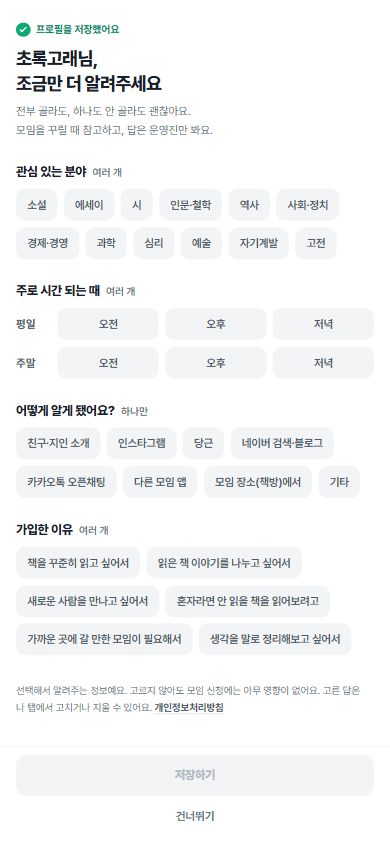
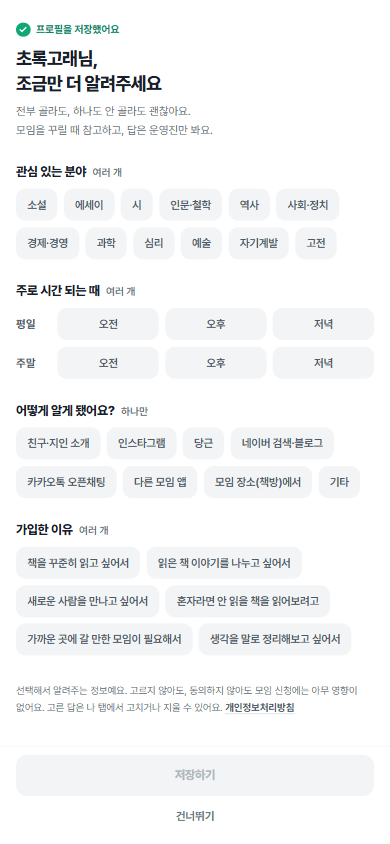
docs: 첫 가입 설문 시안 2차 — 동의 체크칸·스크롤 끝 확인·처리방침 수정안 갱신
Claude-Session: https://claude.ai/code/session_01AtP2JGxY36hHLoGPJEHsbm

Changed region(s): [[0.0308, 0.8009, 0.9231, 0.8626]]

diff --git a/docs/시안-공유/2026-10-12-첫가입설문/회원.html b/docs/시안-공유/2026-10-12-첫가입설문/회원.html
@@ -90,6 +90,26 @@ body.single .phone.tall{height:auto;min-height:100vh}
 .fine{margin-top:34px;padding-bottom:22px;font-size:12.5px;line-height:1.65;color:var(--tg-600)}
 .fine u{text-underline-offset:3px;text-decoration-color:var(--tg-300);font-weight:700;color:var(--tg-700)}
 
+
+/* 동의 체크 (버튼 영역 안) */
+.agree{display:flex;align-items:center;gap:10px;min-height:44px;margin-bottom:8px}
+.box{width:22px;height:22px;flex:none;border-radius:7px;border:2px solid var(--tg-300);display:flex;align-items:center;justify-content:center}
+.box.on{background:var(--brand);border-color:var(--brand)}
+.agree .l{flex:1;font-size:14px;font-weight:700;letter-spacing:-.02em;color:var(--tg-800)}
+.agree .more{flex:none;font-size:13px;font-weight:700;color:var(--tg-600);text-decoration:underline;text-underline-offset:3px;text-decoration-color:var(--tg-300)}
+.cta.soft{background:var(--tg-100);color:var(--tg-700)}
+/* 바텀시트 */
+.dim{position:absolute;inset:0;background:rgba(25,31,40,.42);display:flex;flex-direction:column;justify-content:flex-end;z-index:20}
+.sheet{background:#fff;border-radius:22px 22px 0 0;padding:10px 20px 18px}
+.sheet .grab{width:38px;height:4px;border-radius:9px;background:var(--tg-200);margin:0 auto 14px}
+.sheet h3{font-size:19px;font-weight:800;letter-spacing:-.03em}
+.sheet .hs{margin-top:12px;font-size:13px;line-height:1.6;color:var(--tg-600)}
+.sum{margin-top:10px}
+.sum .r{display:flex;gap:14px;padding:12px 0;border-top:1px solid var(--tg-100)}
+.sum .r:first-child{border-top:0}
+.sum dt{width:78px;flex:none;font-size:14px;color:var(--tg-600)}
+.sum dd{flex:1;font-size:14px;line-height:1.55;font-weight:600;color:var(--tg-900)}
+
 /* 홈 */
 .hi{margin-top:12px;font-size:21px;font-weight:800;line-height:1.3;letter-spacing:-.03em}
 .sec{margin-top:24px;margin-bottom:4px;font-size:13.5px;font-weight:700;color:var(--tg-600);letter-spacing:-.02em}
@@ -132,7 +152,7 @@ body.single .phone.tall{height:auto;min-height:100vh}
 <body>
 <div class="gal">
 <h1 class="gal-title">첫 가입 설문 — 회원 화면 (폰)</h1>
-<p class="gal-sub">한 장씩 보려면 주소 끝에 #s01 ~ #s08 을 붙인다. 가짜 닉네임만 썼다. 오늘 = 10월 12일(월). 선택지는 전부 「제안」이다.</p>
+<p class="gal-sub">한 장씩 보려면 주소 끝에 #s01 ~ #s11 (#s03b 포함) 을 붙인다. 가짜 닉네임만 썼다. 오늘 = 10월 12일(월). 선택지는 전부 「제안」이다.</p>
 
 <section class="scr" id="s01"><p class="cap"><b>01</b>프로필 저장 직후 · 첫 화면(스크롤 전)</p>
 <div class="phone"><div class="body" data-survey="empty" data-saved="1"></div><div class="foot" data-foot="off"></div></div></section>
@@ -140,11 +160,36 @@ body.single .phone.tall{height:auto;min-height:100vh}
 <section class="scr" id="s02"><p class="cap"><b>02</b>설문 비어 있음 · 작은 화면(360×640)에서 스크롤</p>
 <div class="phone"><div class="body" data-survey="empty" data-saved="1"></div><div class="foot" data-foot="off"></div></div></section>
 
-<section class="scr" id="s03"><p class="cap"><b>03</b>일부 고른 상태 (「기타」 칸 열림)</p>
+<section class="scr" id="s03"><p class="cap"><b>03</b>일부 고른 상태 · 동의 체크 전 (저장 꺼짐)</p>
+<div class="phone"><div class="body" data-survey="some" data-saved="1"></div><div class="foot" data-foot="uncheck"></div></div></section>
+
+<section class="scr" id="s03b"><p class="cap"><b>03b</b>일부 고른 상태 · 동의 체크 후 (저장 켜짐)</p>
 <div class="phone"><div class="body" data-survey="some" data-saved="1"></div><div class="foot" data-foot="on"></div></div></section>
 
-<section class="scr" id="s04"><p class="cap"><b>04</b>저장 실패 · 고른 답은 그대로</p>
+<section class="scr" id="s04"><p class="cap"><b>04</b>저장 실패 · 고른 답·체크는 그대로</p>
 <div class="phone"><div class="body" data-survey="some" data-saved="1" data-scroll="end"></div><div class="foot" data-foot="err"></div></div></section>
+
+<section class="scr" id="s09"><p class="cap"><b>09</b>동의 「자세히」 · 시트 열림 (닫힘 = 03)</p>
+<div class="phone"><div class="body" data-survey="some" data-saved="1"></div><div class="foot" data-foot="uncheck"></div>
+  <div class="dim"><div class="sheet">
+    <div class="grab"></div>
+    <h3>가입 설문 정보 수집·이용 (선택)</h3>
+    <dl class="sum">
+      <div class="r"><dt>모으는 것</dt><dd>관심 분야, 주로 시간 되는 때, 알게 된 경로(「기타」에 쓴 내용 포함), 가입한 이유</dd></div>
+      <div class="r"><dt>쓰는 곳</dt><dd>모임 주제·요일·시간대를 정하고, 어디서 알게 됐는지 살펴볼 때 써요</dd></div>
+      <div class="r"><dt>보관</dt><dd>탈퇴하거나 직접 지울 때까지. 그때 바로 지워요</dd></div>
+      <div class="r"><dt>안 해도 돼요</dt><dd>동의하지 않을 수 있어요. 그러면 설문만 저장되지 않고, 모임 신청 등 다른 이용에는 영향이 없어요</dd></div>
+    </dl>
+    <p class="hs">답은 운영진만 봐요. 전체 내용은 개인정보처리방침에 있어요.</p>
+    <span class="cta soft" style="margin-top:14px">닫기</span>
+  </div></div>
+</div></section>
+
+<section class="scr" id="s10"><p class="cap"><b>10</b>맨 아래까지 스크롤 · 비어 있음 (390×844 / 360×640)</p>
+<div class="phone"><div class="body" data-survey="empty" data-saved="1" data-scroll="end"></div><div class="foot" data-foot="off"></div></div></section>
+
+<section class="scr" id="s11"><p class="cap"><b>11</b>맨 아래까지 스크롤 · 고르고 체크한 상태 (버튼 영역이 가장 높을 때)</p>
+<div class="phone"><div class="body" data-survey="some" data-saved="1" data-scroll="end"></div><div class="foot" data-foot="on"></div></div></section>
 
 <!-- s05 건너뛰기 뒤 -->
 <section class="scr" id="s05"><p class="cap"><b>05</b>「건너뛰기」 뒤 도착 · 홈</p>
@@ -242,17 +287,25 @@ body.single .phone.tall{height:auto;min-height:100vh}
     if (s.route === '기타') r += '<div class="etc">' + s.etc + '<small>' + s.etc.length + '/20</small></div>'
     h += blk('어떻게 알게 됐어요?', '하나만', r)
     h += blk('가입한 이유', '여러 개', chips(REASON, s.reason))
-    h += '<p class="fine">선택해서 알려주는 정보예요. 고르지 않아도 모임 신청에는 아무 영향이 없어요. 고른 답은 나&nbsp;탭에서 고치거나 지울 수 있어요. <u>개인정보처리방침</u></p>'
+    h += '<p class="fine">선택해서 알려주는 정보예요. 고르지 않아도, 동의하지 않아도 모임 신청에는 아무 영향이 없어요. 고른 답은 나&nbsp;탭에서 고치거나 지울 수 있어요. <u>개인정보처리방침</u></p>'
     el.innerHTML = h
   })
 
   document.querySelectorAll('[data-foot]').forEach(function (el) {
     var k = el.getAttribute('data-foot')
     if (k === 'edit') { el.innerHTML = '<span class="cta off">저장하기</span>'; return }
+    // 동의 줄은 하나라도 골랐을 때만 나타난다(off = 아무것도 안 고름)
+    var agree = ''
+    if (k !== 'off') {
+      var on = k !== 'uncheck'
+      agree = '<div class="agree"><span class="box' + (on ? ' on' : '') + '">' + (on ? CHECK : '') + '</span>' +
+        '<span class="l">설문 답 수집·이용에 동의해요 (선택)</span><span class="more">자세히</span></div>'
+    }
     var err = k === 'err'
       ? '<p class="err"><svg width="15" height="15" viewBox="0 0 24 24" fill="none" stroke="currentColor" stroke-width="2.4" stroke-linecap="round"><circle cx="12" cy="12" r="10"/><path d="M12 8v4M12 16h.01"/></svg>저장하지 못했어요. 고른 답은 그대로 있으니 한 번 더 눌러 주세요.</p>'
       : ''
-    el.innerHTML = err + '<span class="cta' + (k === 'off' ? ' off' : '') + '">' + (err ? '다시 저장하기' : '저장하기') + '</span><button class="skip">건너뛰기</button>'
+    var off = k === 'off' || k === 'uncheck'
+    el.innerHTML = agree + err + '<span class="cta' + (off ? ' off' : '') + '">' + (err ? '다시 저장하기' : '저장하기') + '</span><button class="skip">건너뛰기</button>'
   })
 
   document.querySelectorAll('[data-home]').forEach(function (el) {

diff --git a/docs/시안-공유/2026-10-12-첫가입설문/README.md b/docs/시안-공유/2026-10-12-첫가입설문/README.md
@@ -1,6 +1,7 @@
-# 첫 가입 설문 — 시안 + 개인정보 처리방침 수정안 (2026-10-12, 디자인)
+# 첫 가입 설문 — 시안 + 개인정보 처리방침 수정안 (2026-10-12, 디자인 · 2회차)
 
 > 정본 결정: `검토문서/DECISIONS.md` 2026-10-12 「가입신청서(구글폼)를 첫 가입 설문으로 옮긴다」 행. 배경: `docs/agent-team/조사/2026-10-10-가입설문-준비.md`.
+> **2회차(같은 날)** — 대표님 답 반영: 선택지 확정 · 동의 체크칸 추가 · 맨 아래 안내 문장 가림 확인 · 처리방침 수정안에 결제 처리자·솔라피·Supabase 도쿄·Vercel 지역 반영.
 > **시안이다. 코드·DB·처리방침 파일은 하나도 바꾸지 않았다.**
 > 스킨: 회원 = 토스 문법 × 지독해 그린(`globals.css` next_ui 토큰 그대로, 새 토큰 없음) / 운영자 = 지금 운영자 화면 스킨(`_admin.css`는 2026-10-12 모임후기 시안에서 복사, 사이드바 메뉴는 `origin/main` `adminMenu.ts` 그대로 — 새 메뉴 없음).
 > 가짜 닉네임만 썼다. 실명은 회색 막대로 가렸고 전화번호는 넣지 않았다. 금액은 숫자만.
@@ -10,10 +11,10 @@
 
 | 파일 | 한 장씩 보기 |
 |---|---|
-| `회원.html` | 주소 끝 `#s01` ~ `#s08` (아무것도 안 붙이거나 `#all`이면 전체 목록) |
+| `회원.html` | 주소 끝 `#s01` ~ `#s11` (`#s03b` 포함. 아무것도 안 붙이거나 `#all`이면 전체 목록) |
 | `운영자.html` | 그대로 열면 된다 (한 장) |
 
-렌더 확인은 이 폴더를 로컬 정적 서버(`python -m http.server`)로 띄워 Playwright로 찍었다. 그냥 더블클릭해 열어도 된다(글꼴은 인터넷에서 받는다).
+렌더 확인은 이 폴더를 로컬 정적 서버(`python -m http.server`)로 띄워 Playwright로 찍었고, PNG는 전부 직접 열어 봤다. 그냥 더블클릭해 열어도 된다(글꼴은 인터넷에서 받는다).
 
 ## 화면 목록 (PNG = 화면당 한 장)
 
@@ -21,97 +22,155 @@
 
 | # | PNG | 화면 |
 |---|---|---|
-| 01 | `01-프로필저장직후-첫화면.png` | 프로필 설정 「시작하기」를 누른 직후. 맨 위에 「프로필을 저장했어요」 한 줄(이 시점에 관문 통과·가입 환영 알림톡은 이미 끝났다). 390 화면에서는 질문 넷이 거의 한 화면에 들어온다. 아무것도 안 골라서 「저장하기」는 꺼져 있고 「건너뛰기」는 늘 보인다 |
-| 02 | `02-360-설문-비어있음-작은화면.png` | 같은 비어 있는 상태를 작은 폰(360×640)에서. 질문은 스크롤되고 아래 버튼 둘은 바닥에 붙어 있다 — 건너뛰기를 찾으려고 내릴 일이 없다 |
-| 03 | `03-일부고른상태.png` · `03-360-일부고른상태.png` | 관심 분야 셋 · 시간 둘(평일 저녁, 주말 오후) · 경로 「기타」(짧은 입력칸이 열림, 20자) · 가입 이유는 비움. 하나라도 고르면 「저장하기」가 켜진다 |
-| 04 | `04-저장실패.png` | 저장 실패. 고른 답은 그대로 두고 버튼 위에 한 줄(코럴 = 에러에만), 버튼은 「다시 저장하기」. 「건너뛰기」는 그대로 둔다 — 실패 때문에 첫 화면에서 갇히면 안 된다 |
-| 05 | `05-건너뛰기뒤-홈.png` | 건너뛰기 → 지금 신규 회원이 보는 홈(「곧 이런 모임이 있어요」 + 가장 가까운 모임 1건) 그대로. 토스트 한 줄: 「나중에 나 탭에서 채울 수 있어요」 |
-| 06 | `06-저장뒤-홈.png` | 저장 → 같은 홈. 토스트: 「알려주셔서 고마워요」. 감사 화면을 따로 두지 않았다 — 첫 신청까지 화면이 하나 더 느는 것을 피했다 |
-| 07 | `07-나탭-고칠자리.png` | **고칠 자리 제안.** 나 탭 「내 활동」 맨 아래 한 줄 「관심 분야 · 시간」(점선 = 새로 생기는 줄, 실제 화면엔 점선 없음). 보조 문구에 지금 답을 요약 |
-| 08 | `08-나탭-관심분야시간-고치기.png` | 그 줄을 누르면. **관심 분야·시간 둘만** 고친다(아래 「시안이 정한 것」). 바꾸기 전이라 「저장하기」 꺼짐. 「답 모두 지우기」로 넷 다 지울 수 있다 |
+| 01 | `01-프로필저장직후-첫화면.png` | 프로필 설정 「시작하기」를 누른 직후. 맨 위에 「프로필을 저장했어요」(이 시점에 관문 통과·가입 환영 알림톡은 이미 끝났다). 아무것도 안 골라서 **동의 줄은 아직 없고** 「저장하기」는 꺼져 있다. 「건너뛰기」는 늘 보인다 |
+| 02 | `02-360-설문-비어있음-작은화면.png` | 같은 상태를 작은 폰(360×640)에서. 질문은 스크롤되고 아래 버튼은 바닥에 붙어 있다 |
+| 03 | `03-일부고른상태-동의전.png` | 하나라도 고르면 버튼 위에 **동의 줄이 나타난다.** 체크 전이라 「저장하기」는 아직 꺼짐. 경로 「기타」를 고르면 20자 입력칸이 열린다 |
+| 03b | `03b-일부고른상태-동의후.png` · `03b-360-일부고른상태-동의후.png` | 동의를 체크하면 「저장하기」가 켜진다 |
+| 04 | `04-저장실패.png` | 저장 실패. 고른 답·체크는 그대로, 버튼 위에 한 줄(코럴 = 에러에만), 버튼은 「다시 저장하기」. 「건너뛰기」는 그대로 둔다 — 실패 때문에 첫 화면에 갇히면 안 된다 |
+| 05 | `05-건너뛰기뒤-홈.png` | 건너뛰기 → 지금 신규 회원 홈(「곧 이런 모임이 있어요」 + 가장 가까운 모임 1건) 그대로 + 토스트 「나중에 나 탭에서 채울 수 있어요」 |
+| 06 | `06-저장뒤-홈.png` | 저장 → 같은 홈 + 토스트 「알려주셔서 고마워요」. 감사 화면을 따로 두지 않았다 |
+| 07 | `07-나탭-고칠자리.png` | 고칠 자리 제안. 나 탭 「내 활동」 맨 아래 「관심 분야 · 시간」(점선 = 새로 생기는 줄, 실제 화면엔 점선 없음) |
+| 08 | `08-나탭-관심분야시간-고치기.png` | 관심 분야·시간 둘만 고친다. 바꾸기 전이라 「저장하기」 꺼짐. 「답 모두 지우기」 = 넷 다 지움(= 동의 철회와 같은 효과) |
+| 09 | `09-동의-자세히-시트열림.png` | 동의 줄 「자세히」 → 바텀시트(열림). 모으는 것 · 쓰는 곳 · 보관 · 안 해도 돼요(거부 권리). 닫힌 상태 = 03 |
+| 10 | `10-스크롤끝-비어있음.png` · `10-360-스크롤끝-비어있음.png` | **가림 확인.** 맨 아래까지 스크롤한 상태, 아무것도 안 고름(버튼 영역이 가장 낮을 때) |
+| 11 | `11-스크롤끝-고르고동의.png` · `11-360-스크롤끝-고르고동의.png` | **가림 확인.** 맨 아래까지 스크롤, 고르고 체크한 상태(동의 줄이 붙어 버튼 영역이 가장 높을 때) |
 
 > 토스트 모양·자리는 지금 서재의 `LibraryToast`(하단 탭 위 76px, 어두운 띠)를 따랐다. 새 패턴이 아니다.
+> 390에서는 질문 넷이 거의 한 화면에 들어와 01과 10이 사실상 같은 그림이다(스크롤할 거리가 거의 없다).
 
 ### 운영자 · 데스크톱 1440
 
 | # | PNG | 화면 |
 |---|---|---|
-| A1 | `A1-운영자-회원상세-가입설문.png` | 회원 관리 — 목록에 작은 「설문 답함 / 건너뜀 / —」 표시 + 행을 누르면 오른쪽에 회원 상세가 열린다고 **가정**(지금 회원 관리에는 상세 화면이 없다 — `MemberList.tsx`는 목록뿐). 상세 안 「가입 설문」 칸에 네 답. 시간은 6칸 표로. **총괄운영자(admin)만 보는 칸**으로 그렸다 |
+| A1 | `A1-운영자-회원상세-가입설문.png` | 회원 관리 — 목록에 「설문 답함 / 건너뜀 / —」 표시 + 행을 누르면 오른쪽에 회원 상세가 열린다고 **가정**(지금 회원 관리에는 상세 화면이 없다 — `MemberList.tsx`는 목록뿐). 상세 안 「가입 설문」 칸에 네 답, 시간은 6칸 표. **총괄운영자(admin)만 보는 칸** |
 
-## 시안이 정한 것 (결정 문장 안에서 디자인이 채운 빈칸)
+## 맨 아래 안내 문장 가림 확인 (대표님 지적)
+
+| 상태 | 390×844 | 360×640 |
+|---|---|---|
+| 맨 아래 스크롤 · 비어 있음 (`10`) | ✅ 안내 두 줄 + 「개인정보처리방침」 링크까지 버튼 영역 위에 다 보인다 | ✅ 다 보인다 |
+| 맨 아래 스크롤 · 고르고 동의 (`11`) | ✅ 다 보인다 | ✅ 다 보인다 |
+
+- **가려진 것이 아니라 스크롤 중간이었다.** 1회차 `03`·`04`는 스크롤 끝이 아닌 상태라 안내 문장이 버튼 경계에서 잘려 보였다. 이번에 스크롤 끝을 따로 찍어 문장 전체가 버튼 위에 나오는 것을 확인했다. 그래서 아래 여백은 바꾸지 않았다(안내 문장 아래 22px).
+- 🔴 **구현할 때 지킬 것 (개발·운영 몫).** 시안은 버튼 영역이 본문 아래에 따로 자리를 차지하는 구조라 겹칠 수가 없다. 실제 화면에서 버튼을 화면 바닥에 **겹쳐 띄우면**(`fixed`) 본문 아래에 **버튼 영역 높이 + 아이폰 하단 안전 영역**만큼 여백을 둬야 한다. 하나라도 고르면 동의 줄이 붙어 **버튼 영역이 약 52px 높아진다** — 여백을 고정값으로 두면 고른 뒤부터 안내 문장이 다시 가려진다.
+
+## 동의 체크 — 동작 (대표님 지시 반영)
+
+| 상황 | 동의 줄 | 「저장하기」 | 「건너뛰기」 |
+|---|---|---|---|
+| 아무것도 안 고름 (01·02·10) | **없음** | 꺼짐 | 체크 없이 됨 |
+| 하나라도 고름 · 체크 전 (03) | 버튼 위에 나타남 | **꺼짐** | 체크 없이 됨 — 고른 답은 저장하지 않는다 |
+| 고름 · 체크 (03b·11) | 체크됨 | 켜짐 | 됨 — 고른 답은 저장하지 않는다 |
+| 고른 것을 전부 해제 | 사라지고 체크도 풀린다 | 꺼짐 | 됨 |
+| 저장 실패 (04) | 체크 유지 | 「다시 저장하기」 | 됨 |
+| 나 탭에서 고치기 (08) | **다시 묻지 않는다** — 처음 저장할 때 이미 동의했다 | 바꾼 게 있을 때만 켜짐 | — |
+
+- 권고대로 **「하나라도 골랐을 때만 체크 필요, 건너뛰기는 체크 없이」**로 정했다. 고르기 전부터 동의 줄을 두면, 아무것도 안 낼 사람에게도 「동의하세요」가 보여 안 내도 되는 일이 해야 하는 일처럼 읽힌다.
+- 동의 줄을 스크롤 맨 아래가 아니라 **버튼 바로 위**에 붙였다. 「저장하기」가 꺼진 이유가 바로 위에 보여야 한다 — 맨 아래에 두면 360에서 그 줄을 찾으러 내려가야 한다.
+- 문구: 체크 줄 「설문 답 수집·이용에 동의해요 (선택)」 + 「자세히」. 시트(09)는 **모으는 것 · 쓰는 곳 · 보관 · 안 해도 돼요** 네 줄 + 「전체 내용은 개인정보처리방침에 있어요」. 시트 안에서는 동의시키지 않는다(닫기만) — 동의는 체크 줄 한 군데에서만 한다.
+- 동의 철회 = 08 「답 모두 지우기」. 지우면 다음에 다시 고를 때 동의 줄이 다시 나온다(가정).
+- ⚠ **확인 필요** — 체크칸 문구·시트 네 줄이 법이 요구하는 알릴 내용을 다 담았는지는 법 확인 대상이다. 시안은 처리방침 수정안(아래)과 같은 말을 쓰도록만 맞췄다.
+
+## 시안이 정한 것
 
 | 정한 것 | 왜 |
 |---|---|
 | **한 화면에 질문 넷, 순서 = 관심 분야 → 시간 → 알게 된 경로 → 가입 이유** | 「나」에 관한 질문(취향·시간)이 먼저 와야 답하는 재미가 있다. 경로·이유는 운영자 쪽 질문이라 뒤로 |
-| **전부 칩 고르기, 자유 입력은 「경로 · 기타」 하나만(20자)** | 경로는 우리가 모르는 새 길을 알려 주는 유일한 질문이라 칸이 필요하다. 이유·분야에 자유 칸을 열면 「의미 없는 응답」(구글폼 문제 셋 중 하나)이 돌아오고 처리방침에 적을 범위도 넓어진다 |
-| **시간 = 평일/주말 × 오전/오후/저녁 6칸 표, 여러 개** | 결정 문장의 「×」를 그대로 그렸다. 요일 2개·시간대 3개를 따로 고르게 하면 「평일+주말, 오전+저녁」이 평일 오전인지 주말 저녁인지 알 수 없다. 칸이 6개뿐이라 표가 무겁지 않다 |
-| **「저장하기」는 하나라도 골라야 켜진다** | 아무것도 안 고르고 저장 = 건너뛰기와 같은 일인데 버튼이 둘이면 헷갈린다 |
-| **건너뛰기·저장 둘 다 홈으로, 토스트 한 줄** | 결정대기 「신규 회원 첫 화면에 할 일 하나」(첫 신청)와 자리를 다투지 않게 — 설문이 끼어든 뒤에도 첫 신청까지 탭 수는 「건너뛰기」 1번만 는다 |
-| **설문은 한 번만 보인다** (가정) | 건너뛰거나 저장하면 다시 안 띄운다. 앱을 그냥 닫아 버린 경우도 「한 번 보여 줬다」로 치는 쪽을 권한다 — 다음 방문에 또 뜨면 관문처럼 느껴진다. 구현 방식은 개발·운영이 정한다 |
-| **나중에 고치는 곳 = 나 탭 한 줄, 관심 분야·시간만** | 둘은 살다 보면 바뀐다. 알게 된 경로·가입 이유는 가입 때의 사실이라 고칠 일이 없다 — 화면에서 뺐다. 대신 「답 모두 지우기」는 넷을 다 지운다(아래 처리방침 §7과 짝) |
-| **화면 맨 아래 고지 한 줄 + 처리방침 링크** | 「선택해서 알려주는 정보 · 안 골라도 신청에 영향 없음 · 나 탭에서 고치거나 지울 수 있음」. 동의 체크칸은 **그리지 않았다** — 필요한지는 아래 「확인 필요」 1번 |
-| 문구 어미 = 지금 5탭 화면 말투(해요체) | ⚠ `VOICE.md`는 카카오톡 메시지 전용이고 인앱 문구 기준은 어느 문서에도 없다(2026-08-26 결정). 기존 5탭 화면 문구 결을 따랐을 뿐 기준 문서를 근거로 쓰지 않았다 |
-| 첫 화면 문구 「답은 운영진만 봐요」 | 모임후기 시안과 같은 말. 열린 질문 3이 「admin만」으로 정해져도 회원에게 「총괄운영자」는 낯선 말이라 이대로 둔다 |
+| **전부 칩 고르기, 자유 입력은 「경로 · 기타」 하나만(20자)** | 경로는 우리가 모르는 새 길을 알려 주는 유일한 질문이다. 이유·분야에 자유 칸을 열면 의미 없는 응답이 돌아오고 처리방침에 적을 범위도 넓어진다 |
+| **시간 = 평일/주말 × 오전/오후/저녁 6칸 표, 여러 개** | 결정 문장의 「×」를 그대로 그렸다. 요일과 시간대를 따로 고르게 하면 조합을 알 수 없다 |
+| **「저장하기」는 하나라도 고르고 + 동의해야 켜진다** | 위 동의 표 |
+| **건너뛰기·저장 둘 다 홈으로, 토스트 한 줄** | 결정대기 「신규 회원 첫 화면에 할 일 하나」(첫 신청)와 자리를 다투지 않게 — 첫 신청까지 늘어나는 건 「건너뛰기」 1번뿐 |
+| **설문은 한 번만 보인다** (가정) | 건너뛰거나 저장하면 다시 안 띄운다. 그냥 앱을 닫은 경우도 「한 번 보여 줬다」로 치는 쪽을 권한다 — 다음 방문에 또 뜨면 관문처럼 느껴진다. 구현 방식은 개발·운영이 정한다 |
+| **나중에 고치는 곳 = 나 탭 한 줄, 관심 분야·시간만** | 둘은 살다 보면 바뀐다. 경로·이유는 가입 때의 사실이라 고칠 일이 없다. 대신 「답 모두 지우기」는 넷을 다 지운다 |
+| 문구 어미 = 지금 5탭 화면 말투(해요체) | ⚠ `VOICE.md`는 카카오톡 메시지 전용이고 인앱 문구 기준은 어느 문서에도 없다(2026-08-26 결정). 기존 5탭 문구 결만 따랐다 |
+| 「답은 운영진만 봐요」 | 모임후기 시안과 같은 말. editor 열람(열린 질문 2)이 「안 됨」으로 정해져도 회원에게 「총괄운영자」는 낯선 말이라 이대로 둔다 |
 
-## 항목별 선택지 후보 — 전부 「제안」
+## 항목별 선택지 — ✅ 확정 (대표님, 2026-10-12: 제안대로)
 
-> 원본 구글폼 선택지는 저장소에 없다(조사 문서 §1-1). 아래는 디자인 제안이고 **대표님이 실제로 들어오는 길·이유를 보고 고친다.**
-
-| 항목 | 고르는 방식(제안) | 선택지(제안) | 「기타」 입력칸(제안) |
+| 항목 | 고르는 방식 | 선택지 | 「기타」 입력칸 |
 |---|---|---|---|
-| 관심 있는 분야 | 여러 개 | 소설 · 에세이 · 시 · 인문·철학 · 역사 · 사회·정치 · 경제·경영 · 과학 · 심리 · 예술 · 자기계발 · 고전 (12) | 없음 — 12개면 대부분 덮고, 운영자가 모임 책을 고르는 단위와 맞추는 게 목적 |
+| 관심 있는 분야 | 여러 개 | 소설 · 에세이 · 시 · 인문·철학 · 역사 · 사회·정치 · 경제·경영 · 과학 · 심리 · 예술 · 자기계발 · 고전 (12) | 없음 |
 | 주로 시간 되는 때 | 여러 개 (6칸 표) | 평일 오전 · 평일 오후 · 평일 저녁 · 주말 오전 · 주말 오후 · 주말 저녁 | 없음 |
 | 어떻게 알게 됐어요? | **하나만** | 친구·지인 소개 · 인스타그램 · 당근 · 네이버 검색·블로그 · 카카오톡 오픈채팅 · 다른 모임 앱 · 모임 장소(책방)에서 · 기타 | **있음, 20자** — 기타를 고를 때만 열린다 |
 | 가입한 이유 | 여러 개 | 책을 꾸준히 읽고 싶어서 · 읽은 책 이야기를 나누고 싶어서 · 새로운 사람을 만나고 싶어서 · 혼자라면 안 읽을 책을 읽어보려고 · 가까운 곳에 갈 만한 모임이 필요해서 · 생각을 말로 정리해보고 싶어서 (6) | 없음 |
 
-- 경로를 「하나만」으로 둔 이유 — 여러 길로 봤어도 **처음 본 곳** 하나가 집계에 쓸모 있다. 여러 개로 받으면 인스타그램과 오픈채팅이 늘 같이 찍혀 어느 쪽이 데려왔는지 안 갈린다.
-- 「다른 모임 앱」은 특정 서비스 이름을 쓰지 않았다. 실제로 많이 오는 앱이 있으면 이름으로 바꾼다.
+- **「기타」 응답이 쌓이면 목록을 고친다** — 경로 「기타」에 같은 답이 여러 번 나오면 그 길을 선택지로 올린다.
+- 경로를 「하나만」으로 둔 이유 — **처음 본 곳** 하나가 집계에 쓸모 있다. 여러 개면 인스타그램과 오픈채팅이 늘 같이 찍혀 어느 쪽이 데려왔는지 안 갈린다.
 
 ## 개인정보 처리방침 수정안 — 바뀌는 조항만
 
-> 바탕 = `origin/main` `jidokhae-web/src/app/policy/privacy/page.tsx`(2026-10-12 읽음, 시행일 문장 「2026년 3월 21일」). **실제 파일은 고치지 않았다. 법률 검토가 아니다** — 확인 필요한 곳은 표시했다.
+> 바탕 = `origin/main` `jidokhae-web/src/app/policy/privacy/page.tsx`(2026-10-12 읽음, 시행일 문장 「2026년 3월 21일」). **실제 파일은 고치지 않았다. 법률 검토가 아니다** — 확인할 곳마다 ⚠로 표시했다.
+> 아래 A는 설문 때문에 바뀌는 것, B는 설문과 무관하게 **지금 문장이 실제와 다른 것**이다. 한 번에 개정하면 공지도 한 번으로 끝난다.
+
+### A. 설문 때문에 바뀌는 조항
 
 | 조항 | 지금 | 바꾼 뒤 (제안) |
 |---|---|---|
-| **1. 수집 항목** | 가 · 나 · 다 세 묶음. 나 = 「실명, 닉네임(서비스 내 표시용), 전화번호, 지역, 이메일(선택)」 | **「라. 가입 설문(선택)」 묶음을 더한다** — 「관심 분야, 주로 시간 되는 때(평일·주말 × 오전·오후·저녁), 서비스를 알게 된 경로(「기타」를 고른 경우 직접 쓴 20자 이내 내용), 가입한 이유」 + 한 줄 「가입 설문은 선택 항목이며, 입력하지 않아도 모임 신청 등 서비스 이용에 제한이 없습니다.」 |
-| **2. 목적** | 서비스 제공 · 이용자 식별 · 연락 · 서비스 개선 · 민원 처리 (5줄) | **한 줄 더한다** — 「모임 기획: 가입 설문(선택) 응답을 모임의 주제·요일·시간대를 정하는 데 참고하고, 서비스를 알게 된 경로를 집계합니다.」 ⚠ **확인 필요** — A1처럼 운영자가 **회원 한 명의 답**을 보는 것이 이 문장 안에 드는지. 응답을 보고 특정 회원에게 연락하거나 모임을 권하는 데 쓸 거라면 목적에 그렇게 적어야 한다 |
-| **3. 보유 기간** | 「회원 탈퇴 시까지 보유하며, 탈퇴 시 지체 없이 파기」 + 전자상거래법 보존 기록 | 본문은 그대로 두고 한 줄 더한다 — 「가입 설문 응답은 회원 탈퇴 시 또는 회원이 직접 지운 때 지체 없이 파기합니다.」 |
-| **6. 국외 이전** | Supabase Inc.(AWS) · 미국 · 이전 항목 「회원 정보, 모임 신청/결제 내역」 | 이전 항목을 「회원 정보(**가입 설문 응답 포함**), 모임 신청/결제 내역」으로. **해당 여부 = 해당한다** — 응답이 지금 회원 정보와 같은 데이터베이스에 저장된다는 전제(구조는 개발 소관). ⚠ **확인 필요** — 데이터베이스가 실제로 미국 지역에 있는지는 이 시안에서 확인하지 않았다. 지금 문장을 그대로 믿었다 |
-| **7. 이용자의 권리** | 열람·정정·삭제·처리 정지·탈퇴 요청 — 연락처·카카오톡 1:1로 | 한 줄 더한다 — 「가입 설문 응답은 나 탭 › 관심 분야 · 시간에서 직접 고치거나 지울 수 있습니다.」 (07·08 자리를 채택할 때만) |
-| **11. 변경** | 「2026년 3월 21일부터 적용」 · 「변경 시 서비스 내 공지를 통해 안내」 | 시행일을 설문을 켜는 날로 바꾸고 이전 시행일을 남긴다 — 「이 방침은 2026년 ○월 ○일부터 적용됩니다. (이전 방침: 2026년 3월 21일 ~ ○월 ○일)」 ⚠ **확인 필요** — 「서비스 내 공지」를 실제로 어디로 낼지(홈 공지 띠 · 앱 알림 · 그 밖). 지금 정해진 경로가 없다 |
-| 4·5·8·9·10 | — | **바꾸지 않는다** (설문이 제3자 제공·위탁 범위를 바꾸지 않는다는 전제) |
+| **1. 수집 항목** | 가 · 나 · 다 세 묶음. 나 = 「실명, 닉네임(서비스 내 표시용), 전화번호, 지역, 이메일(선택)」 | **「라. 가입 설문(선택, 별도 동의)」 묶음을 더한다** — 「관심 분야, 주로 시간 되는 때(평일·주말 × 오전·오후·저녁), 서비스를 알게 된 경로(「기타」를 고른 경우 직접 쓴 20자 이내 내용), 가입한 이유」 + 「가입 설문은 선택 항목으로, 동의하지 않거나 입력하지 않아도 모임 신청 등 서비스 이용에 제한이 없습니다.」 |
+| **2. 목적** | 서비스 제공 · 이용자 식별 · 연락 · 서비스 개선 · 민원 처리 (5줄) | 한 줄 더한다 — 「모임 기획: 가입 설문(선택) 응답을 모임의 주제·요일·시간대를 정하는 데 참고하고, 서비스를 알게 된 경로를 살펴봅니다.」 ⚠ A1처럼 운영자가 **회원 한 명의 답**을 보는 것이 이 문장 안에 드는지 확인 필요. 특정 회원에게 연락하거나 모임을 권하는 데 쓸 거라면 목적에 그렇게 적어야 한다 |
+| **3. 보유 기간** | 「회원 탈퇴 시까지 보유하며, 탈퇴 시 지체 없이 파기」 + 전자상거래법 보존 기록 | 한 줄 더한다 — 「가입 설문 응답은 회원 탈퇴 시 또는 회원이 직접 지우거나 동의를 철회한 때 지체 없이 파기합니다.」 |
+| **6. 국외 이전 (Supabase 행)** | 이전 항목 「회원 정보, 모임 신청/결제 내역」 | 「회원 정보(**가입 설문 응답 포함**), 모임 신청/결제 내역」. 국가 칸은 B-2 참조 |
+| **7. 이용자의 권리** | 열람·정정·삭제·처리 정지·탈퇴 요청 — 연락처·카카오톡 1:1로 | 한 줄 더한다 — 「가입 설문 응답은 나 탭 › 관심 분야 · 시간에서 직접 고치거나 지울 수 있으며, 지우면 동의를 철회한 것으로 봅니다.」 |
+| **11. 변경** | 「2026년 3월 21일부터 적용」 · 「변경 시 서비스 내 공지를 통해 안내」 | 「이 방침은 2026년 ○월 ○일부터 적용됩니다. (이전 방침: 2026년 3월 21일 ~ ○월 ○일)」 ⚠ 「서비스 내 공지」를 실제로 어디에 낼지(홈 공지 띠 · 앱 알림 · 그 밖) 확인 필요 — 정해진 경로가 없다 |
 
-### 확인 필요 — 디자인이 정할 수 없는 것
+### B-1. 결제 처리자 (§5 · §8) · 솔라피 위치 (§5 · §6)
 
-1. **선택 항목에 별도 동의 체크칸이 필요한가.** 시안은 체크칸 없이 「고지 한 줄 + 처리방침 링크」만 뒀다. 필요하다고 나오면 「저장하기」 위에 체크칸 하나가 들어가고 01·03·04가 바뀐다. 법 확인이 먼저다.
-2. 위 표의 ⚠ 셋(회원 한 명 단위로 보는 것이 목적에 드는지 · 데이터베이스 지역 · 변경 안내 경로).
-3. 기존 회원에게는 묻지 않으므로, 이 개정이 **기존 회원에게 따로 알릴 일인지**(그들은 새 항목을 낼 일이 없다).
+**실제 결제 경로 확인 (2026-10-12, `origin/main` 02745e4 코드 + `CLAUDE.md`)**
+- 카드·카카오페이머니 = **포트원 V2 → 카카오페이 채널.** 회원 화면 `MeetingActionButton.tsx:6`·`:174`가 `@portone/browser-sdk/v2`의 `PortOne.requestPayment`(가게 ID·채널 키)를 부르고, 서버 `lib/portone.ts`가 결제 확인·환불을 맡는다. 「카카오페이 단일 채널 + EASY_PAY」(같은 파일 `:173` 주석, `CLAUDE.md` Key Technical Decisions)
+- 계좌이체 = **PG 없음.** 회원이 운영자 계좌로 직접 보내고 운영자가 입금을 확인한다(`register_transfer` · `admin_confirm_transfer`). 환불도 운영자가 손으로 보낸다
+- 토스페이먼츠 = **안 쓴다.** `lib/tosspayments.ts`·`webhooks/tosspayments`는 되돌릴 때를 대비해 남겨 둔 코드라 결제 흐름에서 부르지 않는다(`CLAUDE.md` — 토스 직연동이 PG 심사에서 거절돼 PR #28에서 옮겼다). `cancel.ts:57`·`meetings/[id]/delete/route.ts:97`의 「TossPayments」는 옛 주석이 남은 것이다
+- 알림톡 = 솔라피(`lib/solapi.ts`) → 카카오 알림톡
 
-### 곁가지로 발견한 것 — 고치지 않았다, 보고만
-
-처리방침을 읽다가 설문과 무관한 지금 문장 셋이 지금 결제·발송 구조와 다르게 읽혔다. **법률 판단이 아니라 사실 대조다. 확인 필요.**
-
-| 자리 | 지금 문장 | 대조한 근거 |
+| 조항 | 지금 | 바꾼 뒤 (제안) |
 |---|---|---|
-| §5 위탁 | 「결제 처리: 토스페이먼츠 주식회사」 | `CLAUDE.md` Key Technical Decisions — 결제는 PortOne V2(카카오페이 채널), 토스 직연동은 PG 심사 거절로 PR #28에서 옮겼다. 토스 SDK는 미사용 잔존 |
-| §8 보호 조치 | 「결제 정보는 … 토스페이먼츠가 처리」 | 같음 |
-| §6 국외 이전 표 | 「주식회사 솔라피 · 대한민국」이 **국외 이전** 표 안에 있고, §5 위탁 목록에는 솔라피가 없다 | 처리방침 본문 자체의 배치. 국내 업체라 위탁 쪽 항목인지 확인 필요 |
+| **§5 위탁** | 「결제 처리: 토스페이먼츠 주식회사 (결제 및 환불 처리)」 · Supabase · Vercel | 결제 줄을 바꾸고 알림톡 줄을 더한다 — 「결제 처리: 포트원(주식회사 코리아포트원) · 카카오페이 주식회사 (카드·카카오페이 결제 및 환불)」 · 「알림톡 발송: 주식회사 솔라피 (카카오톡 알림톡 발송)」 · Supabase · Vercel(그대로). ⚠ **확인 필요** — ① 두 회사의 정확한 법인명(포트원 법인명은 이 시안에서 확인하지 않았다) ② 카카오페이 채널이 포트원을 거쳐 카카오페이와 직접 맺은 계약인지, 그 사이에 다른 PG가 있는지(계약서·포트원 콘솔로만 알 수 있다) ③ 결제사를 「위탁」으로 적을지 「제3자 제공」으로 적을지 |
+| **§8 보호 조치** | 「결제 정보는 회사가 직접 보관하지 않으며, 토스페이먼츠가 처리」 | 「카드 번호 등 결제 정보는 회사가 보관하지 않으며, 포트원과 카카오페이가 처리합니다. 계좌이체는 회사가 입금 여부와 입금자명만 확인합니다.」 |
+| **§6 국외 이전 (솔라피 행)** | 「주식회사 솔라피 · 대한민국 · 휴대전화 번호, 모임 정보 · 알림톡 발송 · 발송 완료 후 즉시」 | **이 행을 빼고 §5 위탁으로 옮긴다**(위). 이전 국가가 대한민국이라 국외 이전 표에 있을 이유가 없어 보인다. ⚠ 확인 필요 — 솔라피·카카오 쪽 서버가 국외에 있는지는 확인하지 않았다 |
+| 계좌이체 | (언급 없음) | 위탁 줄을 따로 두지 않는다 — 처리를 맡기는 업체가 없다. 입금자명(「M/D 닉네임」)은 §1-다 「결제 이력」에 이미 포함된다고 봤다. ⚠ 확인 필요 |
 
-2026-05-12 준법 점검 보고서(`verification-squad/reports/2026-05-12/04-compliance-report.md:38`)가 §5를 「토스페이먼츠 명시 — PASS」로 판정했는데, 그 뒤 결제가 PortOne으로 옮겨졌다(공통규약 §1 — 그때 전제가 지금은 바뀐 경우). 설문 개정 때 같이 손볼지는 관리자·개발 판단.
+### B-2. Supabase 이전 국가 — 도쿄 (관리자 전달: Supabase 콘솔 확인 결과 프로젝트 지역 = 도쿄 ap-northeast-1)
+
+| 칸 | 지금 | 바꾼 뒤 (제안) |
+|---|---|---|
+| 이전받는 자 | Supabase Inc. (AWS) | 「Supabase Inc. (미국 법인) — 저장은 Amazon Web Services 도쿄 리전」 |
+| 이전 국가 | 미국 | **「일본(도쿄)」** |
+| 이전 항목 | 회원 정보, 모임 신청/결제 내역 | 「회원 정보(가입 설문 응답 포함), 모임 신청/결제 내역」 |
+| 목적 · 보유 기간 | 클라우드 데이터베이스 호스팅 · 회원 탈퇴 시까지 | 그대로 |
+
+- 회사 칸에 「미국 법인」을 남기고 국가 칸을 저장 위치(일본)로 적는 안이다. 회원이 「내 정보가 어느 나라에 있나」를 국가 칸에서 바로 읽게 하려는 것이다.
+- ⚠ **확인 필요** — ① 미국 법인 직원이 원격으로 접근할 수 있으면 미국도 「이전 국가」로 함께 적어야 하는지 ② 지금 표에 없는 칸(이전 시기·방법, 받는 자 연락처, 거부 방법·거부 시 효과)을 알려야 하는지. 법 확인 대상이다.
+
+### B-3. Vercel — 서버가 회원 정보를 거쳐 가는 자리
+
+**확인한 것** — `origin/main` `jidokhae-web/vercel.json`에는 `regions`가 없다(크론 3개뿐). 관리자 전달대로 지금 서버 함수 지역은 **iad1(미국 워싱턴 D.C. 인근)**. 승인 대기 가지 `origin/perf/region-hnd1`의 `vercel.json`에 `"regions": ["hnd1"]`이 들어 있다(2026-10-12 `git show`로 확인) — 반영되면 서버 함수가 **도쿄**에서 돈다.
+
+**왜 이전 항목을 바꿔야 하나** — 지금 Vercel 행의 이전 항목은 「서비스 접속 로그, 쿠키」뿐이다. 그런데 서버 함수(API 라우트·서버 화면)는 프로필 저장·결제 확인·신청 처리를 하면서 **이름·닉네임·전화번호·신청/결제 내역**(앞으로는 가입 설문 응답도)을 받아 처리하고 Supabase로 넘긴다. 저장은 안 하더라도 그 나라 서버를 거쳐 간다. ⚠ **저장 없이 거쳐 가는 처리도 「국외 이전」으로 적어야 하는지는 법 확인 필요.** 아래는 「적는다」로 볼 때의 문안이다.
+
+| 칸 | 지금 | 안 ① 도쿄 이전 **전** (iad1) | 안 ② 도쿄 이전 **후** (hnd1) |
+|---|---|---|---|
+| 이전받는 자 | Vercel Inc. | Vercel Inc. (미국 법인) | Vercel Inc. (미국 법인) |
+| 이전 국가 | 미국 | 미국 | 「일본(도쿄) — 서버 함수 실행」 + 「미국 등 — 접속 로그」 ⚠ |
+| 이전 항목 | 서비스 접속 로그, 쿠키 | 「서비스 접속 로그, 쿠키, 서버 처리 과정에서 거치는 회원 정보(이름·닉네임·전화번호·모임 신청/결제 내역·가입 설문 응답)」 | 안 ①과 같다 |
+| 목적 | 웹 호스팅 및 서버리스 함수 실행 | 그대로 | 그대로 |
+| 보유 기간 | 서비스 이용 기간 | 「회원 정보는 처리 직후 저장하지 않음 · 접속 로그는 ○일」 ⚠ | 안 ①과 같다 |
+
+- ⚠ **확인 필요** — ① hnd1로 옮겨도 Vercel의 접속 로그·화면 캐시가 어느 나라에 남는지(도쿄 한 곳이 아닐 수 있어 안 ②의 국가 칸을 둘로 나눴다) ② 화면 요청 앞단에서 도는 미들웨어(로그인 세션 쿠키를 다룬다)가 서버 함수와 같은 지역에서 도는지 ③ Vercel 로그 보관 기간(요금제마다 다르다고 알려져 있으나 확인하지 않았다). 셋 다 Vercel 문서·콘솔로 확인할 일이다.
+- **반영 시점 — 도쿄 이전 반영과 같은 날로 맞추는 것을 권한다.** 국가 칸은 「지금 실제로 어디서 도는가」를 적는 자리라, 처리방침이 먼저 「일본」이 되면 그 사이에는 사실과 다르다. 거꾸로 이전이 먼저 나가면 그 사이 처리방침이 「미국」으로 틀린다. 순서는 둘 중 하나다:
+  - (가) **도쿄 이전이 설문보다 먼저 또는 같은 날 승인되면** — 안 ② 하나로 설문 개정과 묶어 **한 번** 개정·공지한다(권장)
+  - (나) **도쿄 이전이 늦어지면** — 설문 개정 때 안 ①로 내고, 이전 반영 날에 국가 칸만 다시 고친다(공지 두 번)
 
 ## 그리지 않은 것
 
 | | 이유 |
 |---|---|
-| 저장 중(버튼 「저장 중…」) | 지금 프로필 설정과 같은 모양이라 따로 그리지 않았다 |
+| 저장 중(버튼 「저장 중…」) | 지금 프로필 설정과 같은 모양 |
 | 「답 모두 지우기」 확인 창 | 08에서 이어지는 확인 한 번. 모양은 기존 확인 창 그대로라고 가정 |
-| 운영자 전체 모아보기(시간대·경로 집계) | 이번 지시는 「회원 상세 쪽」 한 장. 목적 §2의 「경로 집계」를 실제로 보려면 다음 회차에 한 장 필요할 수 있다 |
+| 운영자 전체 모아보기(시간대·경로 집계) | 이번 지시는 「회원 상세 쪽」 한 장. 목적 §2의 「경로를 살펴본다」를 실제로 보려면 다음 회차에 한 장 필요할 수 있다 |
 | 운영진(editor) 화면 | A1 아래 안내 문장으로 갈음 — 칸 자체가 없다 |
-| 구 스킨 프로필 설정 화면 | 이번 범위 밖. ⚠ 그 화면은 아직 세리프·구 스킨이라 **프로필 설정(구) → 설문(신) → 홈(신)** 사이에 스킨이 한 번 바뀐다. 이미 알려진 일이다(`docs/agent-team/조사/2026-08-25-회원화면-전수렌더.md` §G) |
-| 새 단장 시트(`WhatsNewSheet`) | 지금 신규 회원도 홈 첫 방문에 「5개 탭으로 정리했어요」 시트를 본다(이미 알려진 일 — 디자인 로그 2026-08). 설문이 생기면 신규 회원의 전면 화면이 환영 → 프로필 → 설문 → 시트로 하나 더 늘어난다. 05·06은 시트 없이 그렸다 |
+| 구 스킨 프로필 설정 화면 | 범위 밖. ⚠ 그 화면은 아직 세리프·구 스킨이라 **프로필 설정(구) → 설문(신) → 홈(신)** 사이에 스킨이 한 번 바뀐다. 이미 알려진 일(`docs/agent-team/조사/2026-08-25-회원화면-전수렌더.md` §G) |
+| 새 단장 시트(`WhatsNewSheet`) | 지금 신규 회원도 홈 첫 방문에 「5개 탭으로 정리했어요」 시트를 본다(이미 알려진 일). 설문이 생기면 신규 회원이 연달아 보는 전면 화면이 하나 더 는다. 05·06은 시트 없이 그렸다 |
 
-## 열린 질문 (대표님께, 셋)
+## 열린 질문 (대표님께, 둘 — 1회차 1번 「선택지」는 확정돼 뺐다)
 
-1. **선택지 목록이 맞나요?** 특히 「어떻게 알게 됐어요?」 — 실제로 회원이 들어오는 길은 대표님만 아십니다. 빠진 길·없는 길을 고쳐 주세요. (권고: 경로는 하나만 고르기 + 기타 20자)
-2. **나 탭 「관심 분야 · 시간」 줄을 기존 회원에게도 보일까요?** 권고 — **설문을 본 신규 회원에게만.** 「기존 회원에게는 묻지 않는다」는 결정 문장에 가장 가깝다. 다만 기존 회원의 시간대도 모임 시간 정하는 데 쓸모가 있어서, 보이게 하면 묻지 않고도 모일 수는 있다.
-3. **응답을 운영진(editor)도 볼 수 있게 할까요?** 권고 — **총괄운영자만**(A1). 2026-04-23 권한표가 editor에게 이름·닉네임·지역까지만 열어 두었고, 설문 답은 그 바깥이다.
+1. **나 탭 「관심 분야 · 시간」 줄을 기존 회원에게도 보일까요?** 권고 — **설문을 본 신규 회원에게만.** 「기존 회원에게는 묻지 않는다」는 결정 문장에 가장 가깝다. 다만 기존 회원의 시간대도 모임 시간을 정하는 데 쓸모가 있어서, 보이게 하면 묻지 않고도 모일 수는 있다.
+2. **응답을 운영진(editor)도 볼 수 있게 할까요?** 권고 — **총괄운영자만**(A1). 2026-04-23 권한표가 editor에게 이름·닉네임·지역까지만 열어 두었고, 설문 답은 그 바깥이다.
